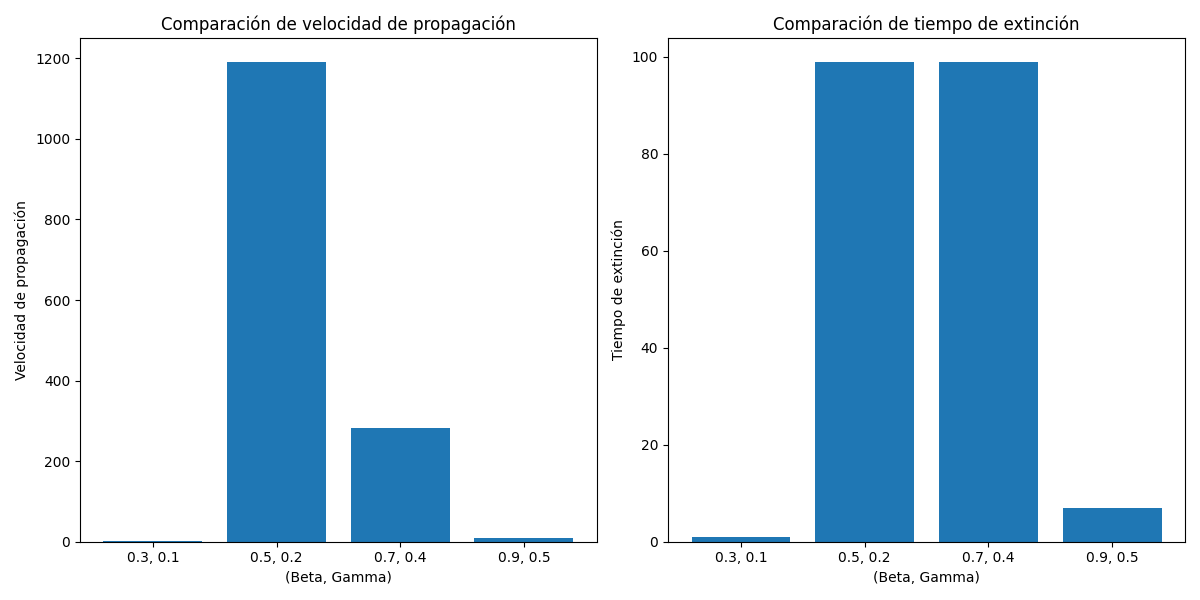
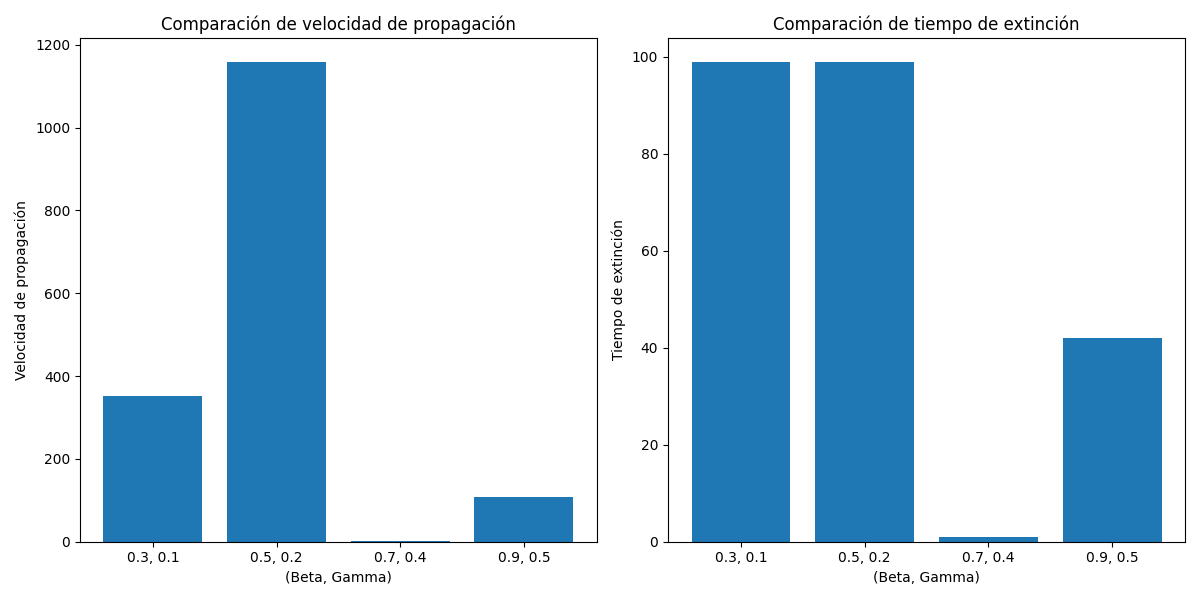
Adición de gráficos promedio en pruebas

diff --git a/testsWithWind.py b/testsWithWind.py
@@ -12,6 +12,7 @@ simulations = [
     {"diffusion_rate": 0.7, "wind_direction": (1, 1), "wind_influence": 0.15},
     {"diffusion_rate": 0.9, "wind_direction": (0.5, 0.5), "wind_influence": 0.2}
 ]
+num_simulations = 50
 
 # Estados de la celda
 EMPTY = 0                 # Verde (sin quemar)
@@ -70,6 +71,67 @@ def run_simulation(diffusion_rate, wind_direction, wind_influence, grid_size, ma
     extinction_time = i
 
     return empty_counts, burning_counts, burned_counts, spread_rate, extinction_time
+
+# Ejecutar simulaciones múltiples y calcular promedios
+def run_simulations_with_averages_wind(simulations, num_simulations, max_iter=iterations):
+    averaged_metrics = []
+    for sim in simulations:
+        diffusion_rate = sim["diffusion_rate"]
+        wind_direction = sim["wind_direction"]
+        wind_influence = sim["wind_influence"]
+
+        total_empty = np.zeros(max_iter)
+        total_burning = np.zeros(max_iter)
+        total_burned = np.zeros(max_iter)
+
+        for _ in range(num_simulations):
+            empty, burning, burned, _, _ = run_simulation(
+                diffusion_rate, wind_direction, wind_influence, grid_size, max_iter
+            )
+            
+            # Ajustar los tamaños de los resultados si la simulación terminó antes de max_iter
+            empty = np.pad(empty, (0, max_iter - len(empty)), 'edge')
+            burning = np.pad(burning, (0, max_iter - len(burning)), 'constant', constant_values=0)
+            burned = np.pad(burned, (0, max_iter - len(burned)), 'edge')
+
+            total_empty += np.array(empty)
+            total_burning += np.array(burning)
+            total_burned += np.array(burned)
+
+        avg_empty = total_empty / num_simulations
+        avg_burning = total_burning / num_simulations
+        avg_burned = total_burned / num_simulations
+
+        averaged_metrics.append({
+            "diffusion_rate": diffusion_rate,
+            "wind_direction": wind_direction,
+            "wind_influence": wind_influence,
+            "avg_empty": avg_empty,
+            "avg_burning": avg_burning,
+            "avg_burned": avg_burned
+        })
+
+    return averaged_metrics
+
+# Ejecutar y graficar resultados
+averaged_metrics_wind = run_simulations_with_averages_wind(simulations, num_simulations=50, max_iter=iterations)
+
+for metrics in averaged_metrics_wind:
+    diffusion_rate = metrics["diffusion_rate"]
+    wind_direction = metrics["wind_direction"]
+    wind_influence = metrics["wind_influence"]
+    avg_empty, avg_burning, avg_burned = metrics["avg_empty"], metrics["avg_burning"], metrics["avg_burned"]
+
+    plt.figure(figsize=(10, 6))
+    plt.plot(avg_empty, label="Empty (Verde)")
+    plt.plot(avg_burning, label="Burning (En llamas)")
+    plt.plot(avg_burned, label="Burned (Quemado)")
+    plt.xlabel("Iteración")
+    plt.ylabel("Promedio de cantidad de celdas")
+    plt.title(f"Promedio de evolución con viento - Difusión: {diffusion_rate}, Dirección: {wind_direction}, Influencia: {wind_influence}")
+    plt.legend()
+    plt.savefig(f"{output_dir}/average_evolution_diffusion_{diffusion_rate}_wind_{wind_direction}.png")
+    plt.show()
 
 # Ejecución de simulaciones con diferentes parámetros
 metrics = []

diff --git a/testsWithoutWind.py b/testsWithoutWind.py
@@ -11,6 +11,7 @@ simulations = [
     {"beta": 0.7, "gamma": 0.4, "grid_size": grid_size},
     {"beta": 0.9, "gamma": 0.5, "grid_size": grid_size}
 ]
+num_simulations = 50
 
 # Estados de la celda
 EMPTY = 0               # Verde (sin quemar) (Susceptible)
@@ -63,6 +64,59 @@ def run_simulation(beta, gamma, grid_size, max_iter=iterations):
     extinction_time = i
     
     return empty_counts, burning_counts, burned_counts, spread_rate, extinction_time
+
+# Ejecutar simulaciones múltiples y calcular promedios
+def run_simulations_with_averages(simulations, num_simulations, max_iter=iterations):
+    averaged_metrics = []
+    for sim in simulations:
+        beta, gamma, grid_size = sim["beta"], sim["gamma"], sim["grid_size"]
+        total_empty = np.zeros(max_iter)
+        total_burning = np.zeros(max_iter)
+        total_burned = np.zeros(max_iter)
+
+        for _ in range(num_simulations):
+            empty, burning, burned, _, _ = run_simulation(beta, gamma, grid_size, max_iter)
+            
+            # Ajustar los tamaños de los resultados si la simulación terminó antes de max_iter
+            empty = np.pad(empty, (0, max_iter - len(empty)), 'edge')
+            burning = np.pad(burning, (0, max_iter - len(burning)), 'constant', constant_values=0)
+            burned = np.pad(burned, (0, max_iter - len(burned)), 'edge')
+
+            total_empty += np.array(empty)
+            total_burning += np.array(burning)
+            total_burned += np.array(burned)
+
+        avg_empty = total_empty / num_simulations
+        avg_burning = total_burning / num_simulations
+        avg_burned = total_burned / num_simulations
+
+        averaged_metrics.append({
+            "beta": beta,
+            "gamma": gamma,
+            "avg_empty": avg_empty,
+            "avg_burning": avg_burning,
+            "avg_burned": avg_burned
+        })
+
+    return averaged_metrics
+
+# Ejecutar y graficar resultados
+averaged_metrics = run_simulations_with_averages(simulations, num_simulations=50, max_iter=iterations)
+
+for metrics in averaged_metrics:
+    beta, gamma = metrics["beta"], metrics["gamma"]
+    avg_empty, avg_burning, avg_burned = metrics["avg_empty"], metrics["avg_burning"], metrics["avg_burned"]
+
+    plt.figure(figsize=(10, 6))
+    plt.plot(avg_empty, label="Empty (Verde)")
+    plt.plot(avg_burning, label="Burning (En llamas)")
+    plt.plot(avg_burned, label="Burned (Quemado)")
+    plt.xlabel("Iteración")
+    plt.ylabel("Promedio de cantidad de celdas")
+    plt.title(f"Promedio de evolución de estados - Beta: {beta}, Gamma: {gamma}")
+    plt.legend()
+    plt.savefig(f"{output_dir}/average_evolution_beta_{beta}_gamma_{gamma}.png")
+    plt.show()
 
 # Ejecución de todas las simulaciones con diferentes parámetros
 metrics = []

diff --git a/fireSpreadSimulatorWind.py b/fireSpreadSimulatorWind.py
@@ -82,3 +82,14 @@ def animate(frame):
 
 ani = animation.FuncAnimation(fig, animate, frames=iterations, repeat=False)
 plt.show()
+
+# Graficar la cantidad de celdas en cada estado a lo largo del tiempo
+plt.figure()
+plt.plot(empty_counts, label="Empty (Verde)")
+plt.plot(burning_counts, label="Burning (En llamas)")
+plt.plot(burned_counts, label="Burned (Quemado)")
+plt.xlabel("Iteración")
+plt.ylabel("Cantidad de celdas")
+plt.title("Evolución de los estados del fuego en la simulación")
+plt.legend()
+plt.show()
